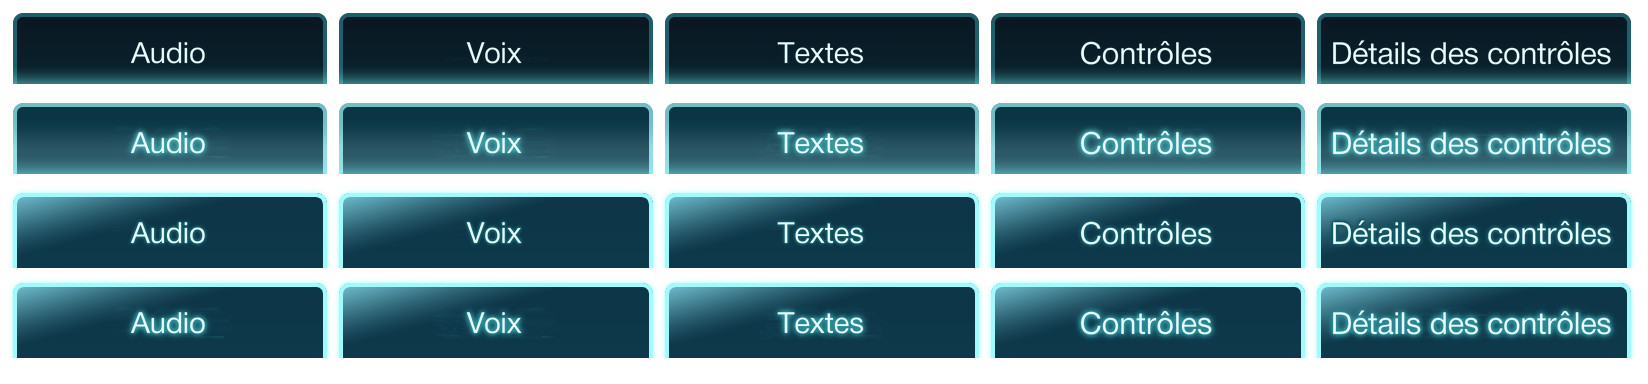
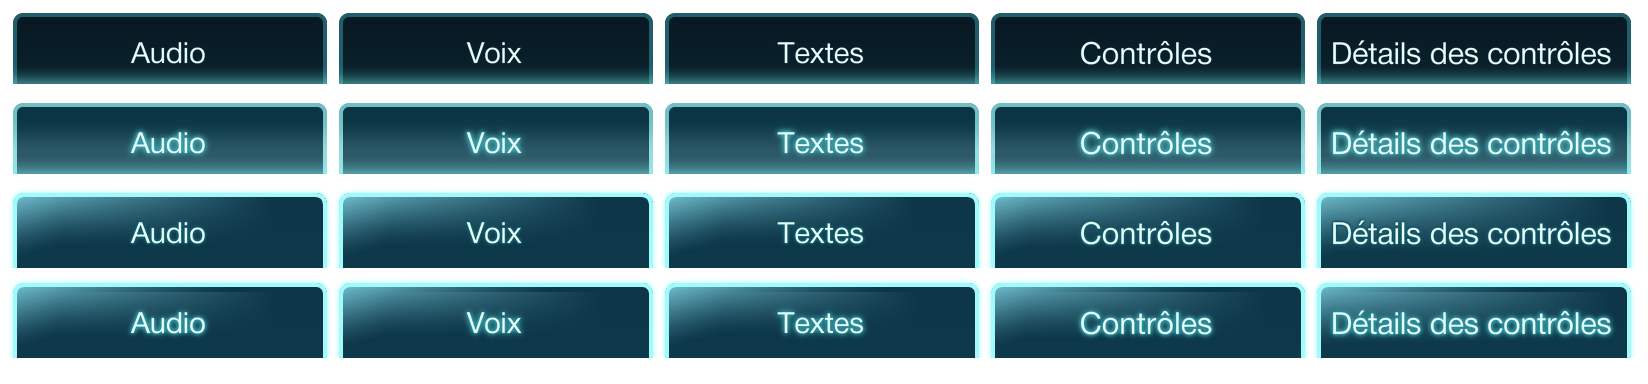
Fix bavure btn_base0

diff --git a/utils/images/buttons.py b/utils/images/buttons.py
@@ -1,7 +1,7 @@
 """Buttons drawn on an opaque background (tabs of the settings): a grid of cells, one
 button per column, one state per row (normal, hovered…). The English image exists in the
-other languages with the same buttons and another text: the English text is erased with
-their background; where all of them have text, the edges around are continued. Each label
+other languages with the same buttons and another text, which shows where the English text
+is; it is erased by continuing the button around it. Each label
 is then written like its English one: centered, same height, letter spacing, color, glow."""
 import numpy as np
 from scipy import ndimage
@@ -9,9 +9,10 @@ from scipy import ndimage
 from utils.images.effects import blur, fit_blur, over, ring
 from utils.images.fonts import size_for_height
 from utils.images.game import GameImage
-from utils.images.inpaint import directional_fill
 from utils.images.text import TextLayer, first_letter, fit_lines
 
+GLOW = 8     # extent of the glow around the letters (px)
+BORDER = 4   # thickness of the frame of a button (px), never redrawn
 MARGIN = 14  # px between a label that has to be reduced and the edges of its button
 
 
@@ -19,18 +20,25 @@ def _light(pixels):
 	return pixels[..., :3].sum(-1)
 
 
-def _erase(english, others):
-	"""English image without its text (light letters and their glow)."""
-	def text(layer, rest):
-		return ndimage.binary_dilation(_light(layer) - np.min([_light(o) for o in rest], 0) > 40, iterations=6)
-	layers = [english] + others
-	masks = [text(layer, [o for j, o in enumerate(layers) if j != i]) for i, layer in enumerate(layers)]
-	clean, hole = english.copy(), masks[0].copy()
-	for other, mask in zip(others, masks[1:]):
-		usable = hole & ~mask
-		clean[usable] = other[usable]
-		hole &= ~usable
-	return directional_fill(clean, hole) if hole.any() else clean
+def _erase_cell(cell, text):
+	"""One cell without its text: inside the button, the band holding the text and its glow
+	(from the top of the button, so that no seam crosses its gloss) is filled row by row
+	between the button just left and just right of it: the button changes from top to
+	bottom, hardly from left to right."""
+	clean = cell.copy()
+	inner = ndimage.binary_erosion(cell[..., 3] > 200, iterations=BORDER)  # inside the frame
+	text &= inner
+	if not text.any():
+		return clean
+	rows, cols = np.flatnonzero(text.any(1)), np.flatnonzero(text.any(0))
+	inside_rows, inside_cols = np.flatnonzero(inner.any(1)), np.flatnonzero(inner.any(0))
+	x0 = max(cols[0] - GLOW, inside_cols[0] + 2)
+	x1 = min(cols[-1] + 1 + GLOW, inside_cols[-1] - 1)
+	t = (np.arange(x0, x1) - (x0 - 1)) / (x1 - x0 + 1)
+	for y in range(inside_rows[0], min(rows[-1] + 1 + GLOW, inside_rows[-1] + 1)):
+		left, right = cell[y, x0 - 1], cell[y, x1]
+		clean[y, x0:x1] = left * (1 - t[:, None]) + right * t[:, None]
+	return clean
 
 
 def _label(original, clean, text):
@@ -61,12 +69,14 @@ def _label(original, clean, text):
 def glow_tabs(image: GameImage, config: dict):
 	"""config: {"texts": label of each column, "states": number of rows}."""
 	original = image.target
-	clean = _erase(original, image.language_variants())
+	# the English text: brighter than the same image in every other language
+	text = _light(original) - np.min([_light(o) for o in image.language_variants()], 0) > 60
 	columns, rows = len(config['texts']), config['states']
 	width, height = image.width // columns, image.height // rows
-	result = clean.copy()
+	result = original.copy()
 	for row in range(rows):
-		for column, text in enumerate(config['texts']):
+		for column, label in enumerate(config['texts']):
 			cell = (slice(row * height, (row + 1) * height), slice(column * width, (column + 1) * width))
-			result[cell] = _label(original[cell], clean[cell], text)
+			clean = _erase_cell(original[cell], text[cell].copy())
+			result[cell] = _label(original[cell], clean, label)
 	image.target = result
